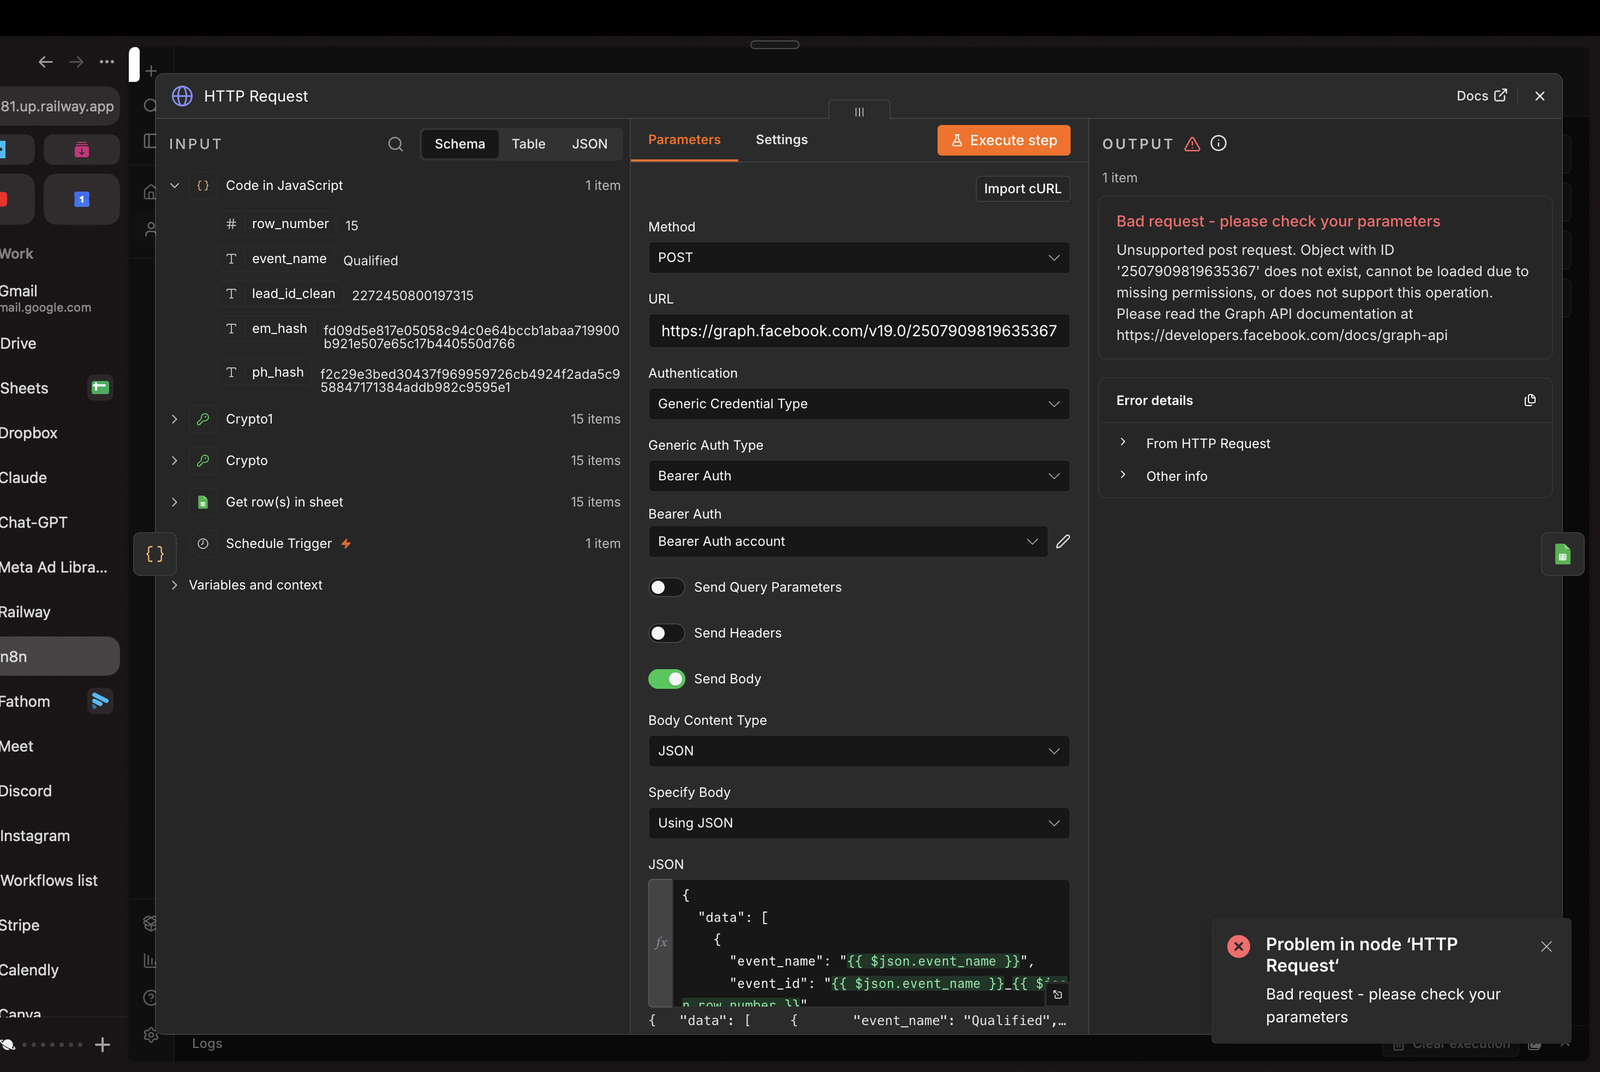
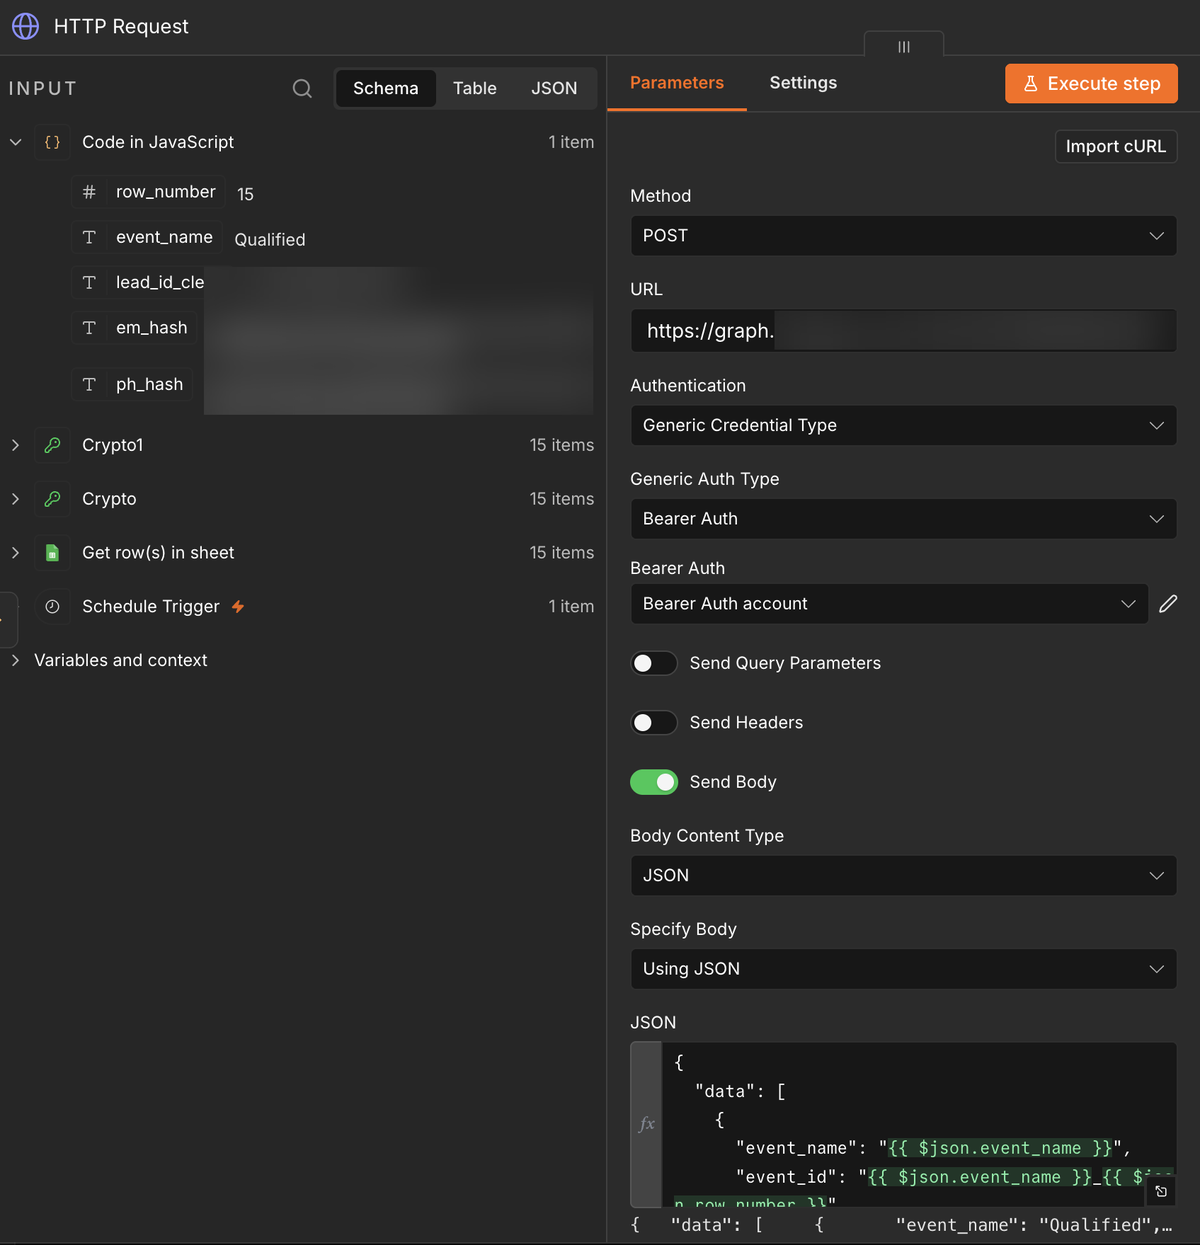
Make the three blanks real inputs, fix the CAPI screenshot
The rules under "Three things to have ready" were decorative lines with
nothing on them, which read as broken form fields. They are fields now:
focusable, typable, with an example in each placeholder, and what they
write is kept on their device so the answers are still there if they
come back before the call. That also turns a decoration into the thing
the section is actually asking for.

The CAPI screenshot had a worse problem than the red error. It was a
failed request, sat directly under a line claiming conversion tracking
is wired up, so it was evidence against the claim. Blurring the error
would have been worse again: a blurred patch on a proof image reads as
something being hidden. Cropped to the request configuration instead,
which is what the claim is about, and the error panel and the toast are
simply not in frame.

Also blurred, before cropping: a Facebook object id in the request URL,
and the lead id and hashed email and phone of a real lead.

Touch targets: the skip link was 43px and the inputs 42px, both under
the 44px floor PRODUCT.md sets. Both fixed.

Checked at 390 and 1440: no horizontal scroll at either width, every
image loads, no http errors, and inputs are 16px so iOS does not zoom
the page when one is focused.

diff --git a/index.html b/index.html
@@ -151,7 +151,7 @@ section.vsl::before{display:none}
    this moves you down the page, it does not ask you for anything. Gold
    stays reserved for the one thing on this page that is a real ask. */
 .skip{display:inline-flex;align-items:center;gap:9px;margin-top:20px;
-  padding:11px 18px;border:1px solid var(--rule);border-radius:2px;
+  padding:13px 18px;border:1px solid var(--rule);border-radius:2px;
   font-family:var(--mono);font-size:12px;letter-spacing:.04em;
   color:var(--soft);text-decoration:none;
   transition:border-color .25s var(--ease),color .25s var(--ease),background .25s var(--ease)}
@@ -197,9 +197,14 @@ section.vsl::before{display:none}
   padding:22px 0;border-bottom:1px solid var(--rule)}
 .mrow .q{font-family:var(--display);font-variation-settings:'wdth' 86;font-weight:700;
   font-size:clamp(1.1rem,2.7vw,1.4rem);color:var(--text);line-height:1.28}
-.blank{grid-column:2;height:0;border-bottom:2px solid var(--red);opacity:.5;margin-top:16px;
-  transform-origin:left;transform:scaleX(0);transition:transform .9s var(--ease)}
-.on .blank{transform:scaleX(1)}
+.blank{grid-column:2;width:100%;margin-top:12px;padding:10px 2px;
+  background:transparent;border:0;border-bottom:2px solid rgba(192,70,60,.55);
+  font-family:var(--body);font-size:16px;line-height:1.5;color:var(--text);
+  transition:border-color .25s var(--ease)}
+.blank::placeholder{color:var(--faint);opacity:1}
+.blank:hover{border-bottom-color:rgba(192,70,60,.8)}
+.blank:focus{outline:none;border-bottom-color:var(--gold)}
+label.q{cursor:pointer}
 
 /* ---------- the accounts ----------
    Each account is a lit panel, not a card: gold rule down the left,
@@ -392,7 +397,6 @@ body.ready .vlen{opacity:1;transform:none;transition-delay:.40s}
   .marker::before,.on .marker::before{transform:scaleX(1);transition:none}
   section::before,section.on::before{transform:scaleX(1);transition:none}
   .acct::before,.on .acct::before{transform:scaleY(1);transition:none}
-  .blank,.on .blank{transform:scaleX(1);transition:none}
   .figs>div>*,.on .figs>div>*{transform:none;transition:none}
   .cta:hover::after{animation:none}
 }
@@ -483,18 +487,21 @@ body.ready .vlen{opacity:1;transform:none;transition-delay:.40s}
     <div class="ready">
       <div class="mrow">
         <div class="row-n">01</div>
-        <div class="q">What one job is worth to you.</div>
-        <div class="blank"></div>
+        <label class="q" for="q1">What one job is worth to you.</label>
+        <input class="blank" id="q1" type="text" inputmode="decimal"
+               autocomplete="off" spellcheck="false" placeholder="e.g. $2,400">
       </div>
       <div class="mrow">
         <div class="row-n">02</div>
-        <div class="q">Roughly how many of ten callers actually book.</div>
-        <div class="blank"></div>
+        <label class="q" for="q2">Roughly how many of ten callers actually book.</label>
+        <input class="blank" id="q2" type="text" inputmode="numeric"
+               autocomplete="off" spellcheck="false" placeholder="e.g. 3 of 10">
       </div>
       <div class="mrow">
         <div class="row-n">03</div>
-        <div class="q">Whether anyone else is part of the decision.</div>
-        <div class="blank"></div>
+        <label class="q" for="q3">Whether anyone else is part of the decision.</label>
+        <input class="blank" id="q3" type="text" inputmode="text"
+               autocomplete="off" spellcheck="false" placeholder="e.g. my wife, my partner">
       </div>
     </div>
   </section>
@@ -774,6 +781,20 @@ body.ready .vlen{opacity:1;transform:none;transition-delay:.40s}
     };
     probe.src = src;
   });
+
+
+  /* The three answers persist on this device, so if they fill them in now and
+     come back to the page before the call, their numbers are still there. */
+  try{
+    ['q1','q2','q3'].forEach(function(id){
+      var el = document.getElementById(id); if(!el) return;
+      var saved = localStorage.getItem('luxon-'+id);
+      if(saved) el.value = saved;
+      el.addEventListener('input', function(){
+        try{ localStorage.setItem('luxon-'+id, el.value); }catch(e){}
+      });
+    });
+  }catch(e){}
 
   /* Quiet reveal. Sections resolve in sequence, then stop moving. */
   var els = document.querySelectorAll('.reveal');
